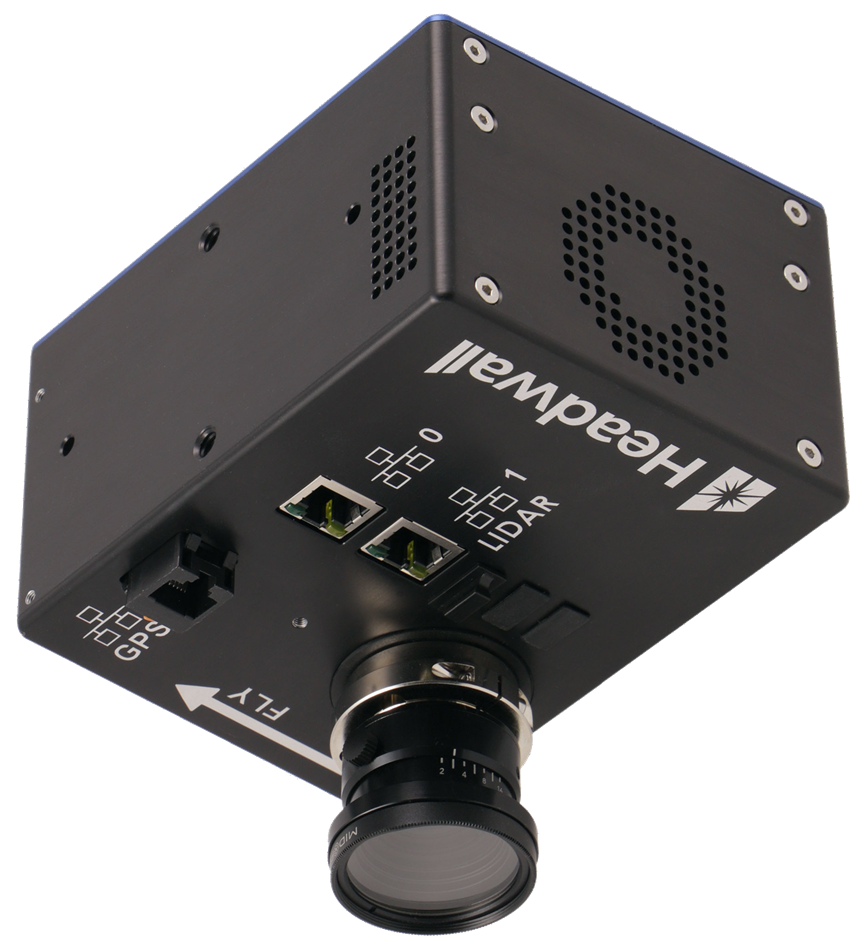
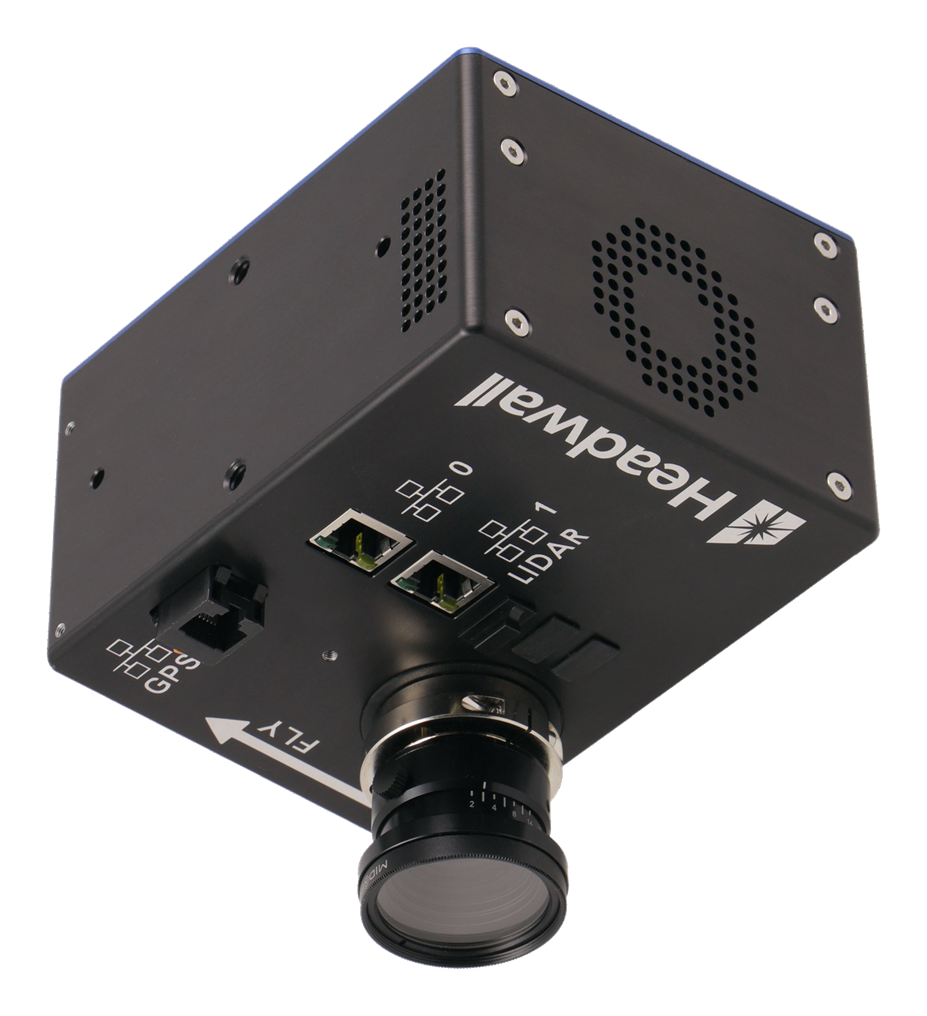
Imágenes de equipos sin fondo (transparentes) + editar estado de cada equipo
- Todas las imágenes (16) recortadas a PNG transparente con rembg (IA);
  drones y sensores quedan "flotando" sobre la tarjeta. Mavic 3M/3T
  sustituidos por renders limpios; lidardrone y m210 con modelo isnet.
- Corregido el mapeo P1/XT2 (estaban intercambiados desde el origen).
- Nuevo editor de estado en la ficha: Operativo / En reserva / En revisión /
  No operativo. El cambio actualiza insignias del catálogo y se guarda en
  localStorage (persistente por navegador). Añadido nivel "bad" a los temas.

diff --git a/styles.css b/styles.css
@@ -4,6 +4,7 @@
     --line:#e7eaf0; --line-2:#f0f2f6;
     --accent:#1f5fd6; --accent-press:#164aa8; --accent-soft:#eaf1fc;
     --ok:#15935f; --ok-soft:#e7f6ef; --warn:#b07914; --warn-soft:#fbf2e1;
+    --bad:#cf4040; --bad-soft:#fbeaea;
     --r-lg:24px; --r-md:16px; --r-sm:11px;
     --sh-1:0 1px 2px rgba(10,15,28,.04), 0 1px 3px rgba(10,15,28,.06);
     --sh-2:0 10px 30px -12px rgba(10,15,28,.18);
@@ -17,6 +18,7 @@
     --line:#222b3c; --line-2:#19202e;
     --accent:#5e9bff; --accent-press:#83b2ff; --accent-soft:rgba(94,155,255,.16);
     --ok:#34d39a; --ok-soft:rgba(52,211,154,.14); --warn:#e3b04b; --warn-soft:rgba(227,176,75,.14);
+    --bad:#f08a8a; --bad-soft:rgba(240,138,138,.16);
     --sh-1:0 1px 2px rgba(0,0,0,.35); --sh-2:0 12px 32px -14px rgba(0,0,0,.6); --sh-3:0 34px 64px -26px rgba(0,0,0,.72);
   }
   html{color-scheme:light}
@@ -192,6 +194,7 @@
     background:rgba(255,255,255,.9);backdrop-filter:blur(4px)}
   .tile-status.ok{color:var(--ok);border-color:#bfe6d3}
   .tile-status.warn{color:var(--warn);border-color:#ecd9ac}
+  .tile-status.bad{color:var(--bad);border-color:#f0c4c4}
   .tile-status .dot{width:6px;height:6px;border-radius:50%;background:currentColor}
   .hidden{display:none!important}
 
@@ -219,6 +222,7 @@
   .st{display:inline-flex;align-items:center;gap:6px;font-size:.78rem;font-weight:600;padding:4px 10px;border-radius:999px;border:1px solid}
   .st.ok{background:var(--ok-soft);color:var(--ok);border-color:#bfe6d3}
   .st.warn{background:var(--warn-soft);color:var(--warn);border-color:#ecd9ac}
+  .st.bad{background:var(--bad-soft);color:var(--bad);border-color:#f0c4c4}
   .st .dot{width:6px;height:6px;border-radius:50%;background:currentColor}
   .t-view{color:var(--accent);font-weight:700;font-size:.82rem;white-space:nowrap}
   .chips{display:flex;flex-wrap:wrap;gap:5px}
@@ -262,7 +266,22 @@
     border-radius:9px;background:var(--bg-soft);border:1px solid var(--line);color:var(--ink-2)}
   .status-tag.ok{background:var(--ok-soft);color:var(--ok);border-color:#bfe6d3}
   .status-tag.warn{background:var(--warn-soft);color:var(--warn);border-color:#ecd9ac}
+  .status-tag.bad{background:var(--bad-soft);color:var(--bad);border-color:#f0c4c4}
   .status-tag .dot{width:7px;height:7px;border-radius:50%;background:currentColor}
+  /* Editor de estado */
+  .status-edit{margin:0 0 20px;padding:14px 16px;border:1px solid var(--line);border-radius:12px;background:var(--bg-soft)}
+  .status-edit-label{display:block;font-size:.72rem;text-transform:uppercase;letter-spacing:.08em;
+    color:var(--muted);font-weight:700;margin-bottom:9px}
+  .status-edit-opts{display:flex;flex-wrap:wrap;gap:8px}
+  .se-btn{font-size:.82rem;font-weight:600;padding:7px 13px;border-radius:8px;cursor:pointer;
+    border:1px solid var(--line);background:var(--bg);color:var(--ink-2);
+    display:inline-flex;align-items:center;gap:7px;transition:.15s var(--ease)}
+  .se-btn::before{content:"";width:7px;height:7px;border-radius:50%;background:currentColor;opacity:.55}
+  .se-btn:hover{border-color:#cfd6e2}
+  .se-btn.ok{color:var(--ok)} .se-btn.warn{color:var(--warn)} .se-btn.bad{color:var(--bad)}
+  .se-btn.active{color:#fff;border-color:transparent}
+  .se-btn.active::before{opacity:1;background:#fff}
+  .se-btn.active.ok{background:var(--ok)} .se-btn.active.warn{background:var(--warn)} .se-btn.active.bad{background:var(--bad)}
   .desc{color:var(--ink-2);line-height:1.68;margin:0 0 20px;font-size:.97rem}
   .specs-title{font-size:.72rem;text-transform:uppercase;letter-spacing:.1em;color:var(--muted-2);font-weight:700;margin:0 0 6px}
   table.specs{width:100%;border-collapse:collapse;margin-bottom:18px}

diff --git a/data.js b/data.js
@@ -14,7 +14,7 @@ const EQUIPAMIENTO = [
     id: "m300",
     type: "drone",
     art: "industrial",
-    img: "assets/img/m300.jpg",
+    img: "assets/img/m300.png",
     name: "DJI Matrice 300 RTK",
     brand: "DJI",
     tagline: "Plataforma industrial de cartografía y carga útil dual",
@@ -41,7 +41,7 @@ const EQUIPAMIENTO = [
     id: "phantom4rtk",
     type: "drone",
     art: "quad",
-    img: "assets/img/phantom4rtk.jpg",
+    img: "assets/img/phantom4rtk.png",
     name: "DJI Phantom 4 RTK",
     brand: "DJI",
     tagline: "Fotogrametría de precisión en formato compacto",
@@ -65,7 +65,7 @@ const EQUIPAMIENTO = [
     id: "m210",
     type: "drone",
     art: "industrial",
-    img: "assets/img/m210.jpg",
+    img: "assets/img/m210.png",
     name: "DJI Matrice 210 (M210)",
     brand: "DJI",
     tagline: "Plataforma dual de inspección",
@@ -89,7 +89,7 @@ const EQUIPAMIENTO = [
     id: "mavic3m",
     type: "drone",
     art: "quad",
-    img: "assets/img/mavic3m.jpg",
+    img: "assets/img/mavic3m.png",
     name: "DJI Mavic 3M (Multispectral)",
     brand: "DJI",
     tagline: "RGB + multiespectral para agricultura de precisión",
@@ -114,7 +114,7 @@ const EQUIPAMIENTO = [
     id: "mavic3t",
     type: "drone",
     art: "quad",
-    img: "assets/img/mavic3t.jpg",
+    img: "assets/img/mavic3t.png",
     name: "DJI Mavic 3T (Thermal)",
     brand: "DJI",
     tagline: "Cámara térmica radiométrica + zoom",
@@ -139,7 +139,7 @@ const EQUIPAMIENTO = [
     id: "mavicpro",
     type: "drone",
     art: "quad",
-    img: "assets/img/mavicpro.jpg",
+    img: "assets/img/mavicpro.png",
     name: "DJI Mavic Pro (Fly More)",
     brand: "DJI",
     tagline: "Plataforma RGB ligera y plegable",
@@ -162,7 +162,7 @@ const EQUIPAMIENTO = [
     id: "mini4pro",
     type: "drone",
     art: "quad",
-    img: "assets/img/mini4pro.jpg",
+    img: "assets/img/mini4pro.png",
     name: "DJI Mini 4 Pro",
     brand: "DJI",
     tagline: "Ultraligero para reconocimiento ágil",
@@ -186,7 +186,7 @@ const EQUIPAMIENTO = [
     id: "matrice400",
     type: "drone",
     art: "industrial",
-    img: "assets/img/matrice400.jpg",
+    img: "assets/img/matrice400.png",
     name: "DJI Matrice 400",
     brand: "DJI",
     tagline: "Nueva plataforma industrial de largo alcance",
@@ -210,7 +210,7 @@ const EQUIPAMIENTO = [
     id: "lidardrone",
     type: "drone",
     art: "industrial",
-    img: "assets/img/lidardrone.jpg",
+    img: "assets/img/lidardrone.png",
     name: "LiDARdrone XL (Aeromedia)",
     brand: "Aeromedia / Phoenix",
     tagline: "Hexacóptero de carga pesada para LiDAR aerotransportado",
@@ -244,7 +244,7 @@ const EQUIPAMIENTO = [
     id: "p1",
     type: "sensor",
     art: "camera",
-    img: "assets/img/c1.png",
+    img: "assets/img/p1.png",
     name: "DJI Zenmuse P1",
     brand: "DJI",
     tagline: "Cámara full-frame de 45 MP para fotogrametría",
@@ -267,7 +267,7 @@ const EQUIPAMIENTO = [
     id: "xt2",
     type: "sensor",
     art: "thermal",
-    img: "assets/img/c2.png",
+    img: "assets/img/xt2.png",
     name: "DJI Zenmuse XT2",
     brand: "DJI / FLIR",
     tagline: "Cámara dual RGB + térmica radiométrica",
@@ -375,7 +375,7 @@ const EQUIPAMIENTO = [
     id: "afx17",
     type: "sensor",
     art: "hyperspectral",
-    img: "assets/img/afx17.jpg",
+    img: "assets/img/afx17.png",
     name: "Specim AFX17",
     brand: "Specim",
     tagline: "Hiperespectral SWIR aerotransportada (900–1700 nm)",

diff --git a/app.js b/app.js
@@ -32,6 +32,29 @@ function visual(e, cls){
   return { bg:c.bg, inner: illustration(e.art) };
 }
 
+/* ---- Estados editables (se guardan en el navegador) ---- */
+const STATUS_OPTS = [
+  { label:"Operativo",    level:"ok"   },
+  { label:"En reserva",   level:"warn" },
+  { label:"En revisión",  level:"warn" },
+  { label:"No operativo", level:"bad"  },
+];
+const STATUS_KEY = "intellfoo-status";
+function loadStatusOverrides(){ try{ return JSON.parse(localStorage.getItem(STATUS_KEY)) || {}; }catch(_){ return {}; } }
+function applyStatusOverrides(){
+  const ov = loadStatusOverrides();
+  EQUIPAMIENTO.forEach(e=>{ if(ov[e.id]) e.status = ov[e.id]; });
+}
+function setStatus(id, idx){
+  const opt = STATUS_OPTS[idx]; if(!opt) return;
+  const e = EQUIPAMIENTO.find(x=>x.id===id); if(!e) return;
+  e.status = { label:opt.label, level:opt.level };
+  const ov = loadStatusOverrides(); ov[id] = e.status;
+  try{ localStorage.setItem(STATUS_KEY, JSON.stringify(ov)); }catch(_){}
+  render();        // actualiza insignias del catálogo
+  openModal(id);   // refresca la ficha (botón activo + insignia)
+}
+
 /* Secciones del catálogo (estilo tienda) */
 const CAT_META = {
   drone:  { eyebrow:"Plataformas aéreas", title:"Drones", sub:"Aeronaves no tripuladas para captura aérea, cartografía y teledetección." },
@@ -115,6 +138,9 @@ let query = "";
 
 const catalogEl = document.getElementById("catalog");
 const softSection = document.getElementById("software-section");
+
+/* Aplica los estados guardados antes de calcular nada */
+applyStatusOverrides();
 
 /* ---- Stats ---- */
 (function renderStats(){
@@ -424,6 +450,12 @@ function openModal(id){
         <span class="status-tag ${e.status.level}"><span class="dot"></span>${e.status.label}</span>
         ${e.serial?`<span class="status-tag">N.º serie: ${e.serial}</span>`:""}
       </div>
+      <div class="status-edit">
+        <span class="status-edit-label">Cambiar estado del equipo</span>
+        <div class="status-edit-opts">
+          ${STATUS_OPTS.map((o,i)=>`<button class="se-btn ${o.level} ${o.label===e.status.label?"active":""}" data-st="${i}">${o.label}</button>`).join("")}
+        </div>
+      </div>
       <p class="desc">${e.description}</p>
       <div class="chips" style="margin-bottom:18px">${chips}</div>
       <p class="specs-title">Características técnicas</p>
@@ -438,6 +470,8 @@ function openModal(id){
   overlay.classList.add("open");
   document.body.style.overflow = "hidden";
   document.getElementById("closeBtn").addEventListener("click", closeModal);
+  modal.querySelectorAll(".se-btn").forEach(b=>
+    b.addEventListener("click", ()=>setStatus(id, +b.dataset.st)));
 }
 function closeModal(){
   overlay.classList.remove("open");

diff --git a/index.html b/index.html
@@ -8,7 +8,7 @@
 <link rel="preconnect" href="https://fonts.googleapis.com">
 <link rel="preconnect" href="https://fonts.gstatic.com" crossorigin>
 <link href="https://fonts.googleapis.com/css2?family=Inter:wght@400;500;600;700;800;900&display=swap" rel="stylesheet">
-<link rel="stylesheet" href="styles.css?v=11">
+<link rel="stylesheet" href="styles.css?v=13">
 </head>
 <body>
 
@@ -99,7 +99,7 @@
   <svg viewBox="0 0 24 24" fill="none" stroke="currentColor" stroke-width="2.2" stroke-linecap="round" stroke-linejoin="round"><path d="M12 19V5M6 11l6-6 6 6"/></svg>
 </button>
 
-<script src="data.js?v=12"></script>
-<script src="app.js?v=12"></script>
+<script src="data.js?v=13"></script>
+<script src="app.js?v=13"></script>
 </body>
 </html>
